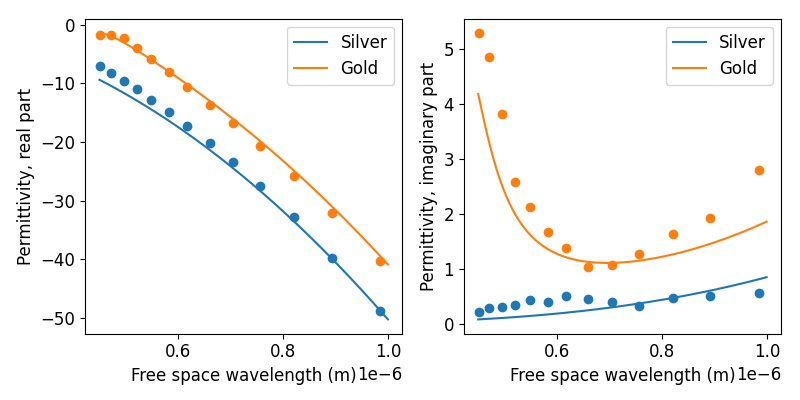
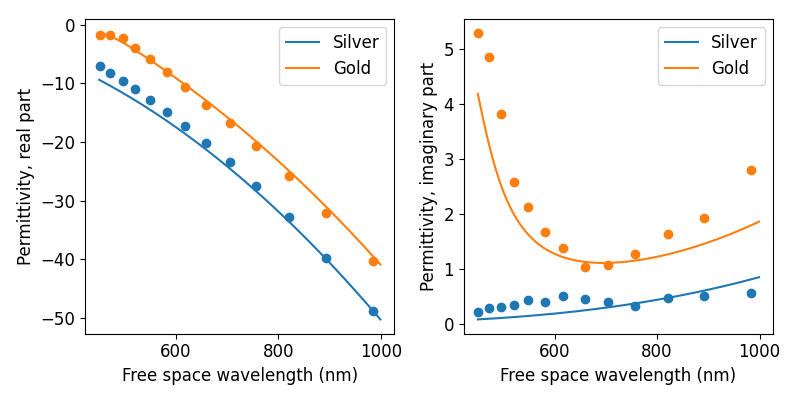
Fix wavelength unit in plot

diff --git a/examples/scripts/drude_lorentz_example.py b/examples/scripts/drude_lorentz_example.py
@@ -64,27 +64,27 @@ if __name__ == '__main__':
     fig, (real_part_axes, imaginary_part_axes) = plt.subplots(
         ncols=2, figsize=(8, 4))
 
-    real_part_axes.plot(wavelengths, silver_permittivity.real,
+    real_part_axes.plot(wavelengths/const.nano, silver_permittivity.real,
                         'C0-', label='Silver')
-    real_part_axes.plot(silver_wavelengths, silver_empirical_permittivity.real,
+    real_part_axes.plot(silver_wavelengths/const.nano, silver_empirical_permittivity.real,
                         'C0o')
-    real_part_axes.plot(wavelengths, gold_permittivity.real,
+    real_part_axes.plot(wavelengths/const.nano, gold_permittivity.real,
                         'C1-', label='Gold')
-    real_part_axes.plot(gold_wavelengths, gold_empirical_permittivity.real,
+    real_part_axes.plot(gold_wavelengths/const.nano, gold_empirical_permittivity.real,
                         'C1o')
-    real_part_axes.set_xlabel('Free space wavelength (m)')
+    real_part_axes.set_xlabel('Free space wavelength (nm)')
     real_part_axes.set_ylabel('Permittivity, real part')
     real_part_axes.legend()
 
     imaginary_part_axes.plot(
-        wavelengths, silver_permittivity.imag, 'C0-',  label='Silver')
-    imaginary_part_axes.plot(silver_wavelengths, silver_empirical_permittivity.imag,
+        wavelengths/const.nano, silver_permittivity.imag, 'C0-',  label='Silver')
+    imaginary_part_axes.plot(silver_wavelengths/const.nano, silver_empirical_permittivity.imag,
                         'C0o')
     imaginary_part_axes.plot(
-        wavelengths, gold_permittivity.imag, 'C1-',  label='Gold')
-    imaginary_part_axes.plot(gold_wavelengths, gold_empirical_permittivity.imag,
+        wavelengths/const.nano, gold_permittivity.imag, 'C1-',  label='Gold')
+    imaginary_part_axes.plot(gold_wavelengths/const.nano, gold_empirical_permittivity.imag,
                         'C1o')
-    imaginary_part_axes.set_xlabel('Free space wavelength (m)')
+    imaginary_part_axes.set_xlabel('Free space wavelength (nm)')
     imaginary_part_axes.set_ylabel('Permittivity, imaginary part')
     imaginary_part_axes.legend()
 
